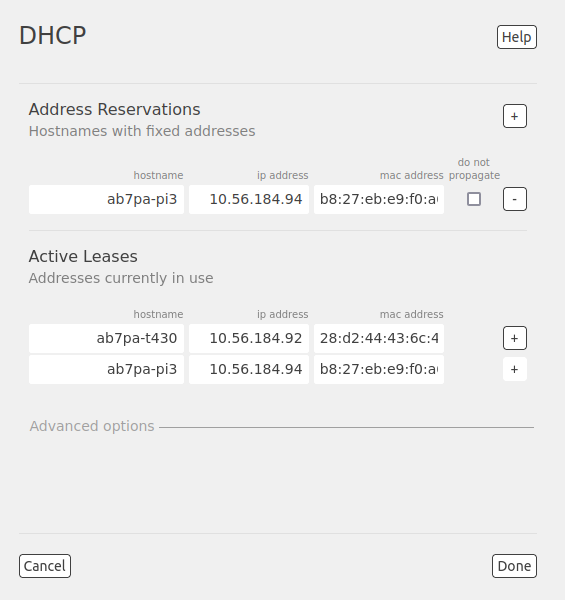
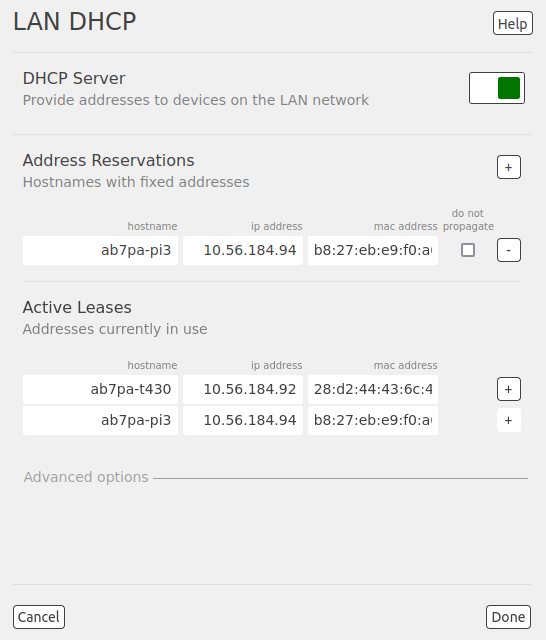
update lan dhcp info (#447)

diff --git a/arednGettingStarted/node_admin.rst b/arednGettingStarted/node_admin.rst
@@ -195,24 +195,29 @@ The **Mesh Address** is the primary IP address of your node. The AREDN® firmwar
 LAN
 +++
 
-The **LAN Size** allows you to set the number of devices your node will be able to host on its Local Area Network (LAN). Click in the field at the right to see the dropdown list of options for the size of your node's LAN. The default value is ``5 hosts``. You may also ``disable`` your node's ability to provide a LAN network. If the LAN is disabled then the node's DHCP server will also be disabled.
-
-It is important not to select a size that is larger than necessary because the chance of an IP address conflict on the mesh increases with the size of the subnet. The LAN subnet parameters are automatically calculated and depend on the IP address of the *Mesh* interface. If a conflict does occur it can be fixed by changing the *Mesh* IP address above.
+The **LAN Type** allows you to set the number of devices your node will be able to host on its Local Area Network (LAN). Click in the field at the right to see the dropdown list of options for the size of your node's LAN. The default value is ``5 hosts``. It is important not to select a size that is larger than necessary because the chance of an IP address conflict on the mesh increases with the size of the subnet. The LAN subnet parameters are automatically calculated and depend on the IP address of the *Mesh* interface. If a conflict does occur it can be fixed by changing the *Mesh* IP address above.
 
 The most common configuration is to have the LAN address space managed automatically for you. In this case the LAN shares the same address space as the mesh at large, and every host on the LAN has direct access to and from the mesh. You have the option of selecting the size of the LAN subnet which can accommodate either 1, 5, 13, or 29 LAN hosts. A single host subnet can be useful for either a single server or a separate network router using its own NAT which is capable of more advanced routing functions than those available on a mesh node. This design minimizes the amount of manual effort needed to provide services to the mesh, since many services do not work well if they are hosted behind a :abbr:`NAT (Network Address Translation)` router.
 
 When you connect a device to your node's LAN, not only will it have an IP address in the LAN IP address range, but it is best practice for LAN device to obtain its DNS Server information automatically from the node. Be aware that if a LAN device does not use the DNS Server entry provided by the node to which it is connected, then that device will be unable to resolve hostnames on the mesh network. Also, hard-coding a device's DNS Server entry with the mesh node's IP address could result in unexpected failures if that IP address changes.
 
 NAT Mode
-  Another choice for *LAN Size* is ``NAT`` and in this mode the LAN is isolated from the mesh. All outgoing traffic has its source address modified to be the *Mesh* IP address of the node itself. This is the same way that most home routers use an Internet connection, and all services provided by computers on the LAN can only be accessed from the mesh using port forwarding rules.
+  Another choice for *LAN Type* is ``NAT`` and in this mode the LAN is isolated from the mesh. All outgoing traffic has its source address modified to be the *Mesh* IP address of the node itself. This is the same way that most home routers use an Internet connection, and all services provided by computers on the LAN can only be accessed from the mesh using port forwarding rules.
 
   .. image:: _images/admin-network-nat.png
    :alt: Admin Network - NAT
    :align: center
 
-  |
-
   In ``NAT`` mode you are responsible for managing the IP address space of your node's LAN network. Enter the LAN IP address and netmask in dotted decimal format. Specify the final octet of the IP address that your node's DHCP service will use as its *DHCP Start* address as well as the *DHCP End* address, which defines the IP address range that will be provided via DHCP for LAN devices.
+
+44Net Mode
+  Another choice for *LAN Type* is ``44Net`` and this mode allows you to use IP addresses from the `AMPRnet <https://www.ardc.net/44net/>`_ address space (44.0.0.0/9 to 44.128.0.0/10).
+
+  .. image:: _images/admin-network-44net.png
+   :alt: Admin Network - 44Net
+   :align: center
+
+  Enter the **44Net IP Address** and **Netmask** in dotted decimal format. Specify the offset of the IP address that your node's DHCP service will use as its *DHCP Start* address as well as the offset for the *DHCP End* address, which defines the IP address range that will be provided via DHCP for LAN devices.
 
 WAN
 +++
@@ -252,6 +257,9 @@ Mesh to WAN
 
 LAN to WAN
   The default value is ``enabled`` which allows devices on your node's LAN to access your node's WAN network. Setting this value to ``disabled`` will prevent LAN devices from accessing the WAN, which means that your LAN hosts will not be able to reach the Internet even if your node has Internet access via its WAN. You may need to disable WAN access if your device needs to be connected to two networks at once, such as an Ethernet connection to your node as well as a wifi connection to a local served agency network.
+
+LAN to 44Net
+  The default value is ``enabled`` which provides a 44Net route for any LAN device on your node, even if your default route is disabled.
 
 LAN default route
   Your node's DHCP server will provide routes to its LAN devices so they can access any available networks. A default route is required for WAN access, and that is provided automatically if **LAN to WAN** is *enabled* as discussed above. However, some LAN devices (such as certain IP cameras) may not support DHCP option 121, so they will require a default route in order to access the mesh network. Setting this value to ``enabled`` will provide a default route to those devices. If a LAN device is connected to two networks at once, such as an Ethernet connection to your node as well as a wifi connection to a local served agency network, care should be taken to understand how the device will deal with default routes for more than one network. The default value is ``disabled`` and you should not enable it unless you have a special reason to do so.
@@ -658,13 +666,16 @@ You can click the ``Cancel`` button to ignore any changes you made on this displ
 LAN DHCP settings
 -----------------
 
-Highlight and click the section displaying your node's *LAN DHCP* settings. By default each node runs a `Dynamic Host Control Protocol <https://en.wikipedia.org/wiki/Dynamic_Host_Configuration_Protocol>`_ (DHCP) server to provide client IP addresses for devices joining its LAN network. LAN devices connecting to your node will be assigned an IP address automatically. Be aware that if your *LAN Size* is ``disabled`` in the **Network** settings, then your node's DHCP server is also ``disabled``. Context-sensitive help is available by clicking the ``Help`` button.
+Highlight and click the section displaying your node's *LAN DHCP* settings. By default each node runs a `Dynamic Host Control Protocol <https://en.wikipedia.org/wiki/Dynamic_Host_Configuration_Protocol>`_ (DHCP) server to provide client IP addresses for devices joining its LAN network. LAN devices connecting to your node will be assigned an IP address automatically. Context-sensitive help is available by clicking the ``Help`` button.
 
 .. image:: _images/admin-dhcp-1.png
  :alt: Admin DHCP Settings
  :align: center
 
 |
+
+DHCP Server
+  This option is ``enabled`` by default, which provides IP addresses to devices attached to this node's LAN network. If disabled, the LAN network is still active, but addresses will not be automatically provided. Multiple DHCP servers can be active on the same LAN network but it is not defined which DHCP server will provide an IP address to each device even when address reservations are configured. It is best practice to have only one DHCP server enabled on a LAN network in order to avoid confusion.
 
 Address Reservations
   Devices which are added to the *Address Reservations* list will display their hostname, IP address, and MAC address. The hostname of every device connected to the mesh at large should be unique. It is best practice to prefix your Amateur Radio callsign to the hostname of each of your devices in order to give it a unique name on the network.
